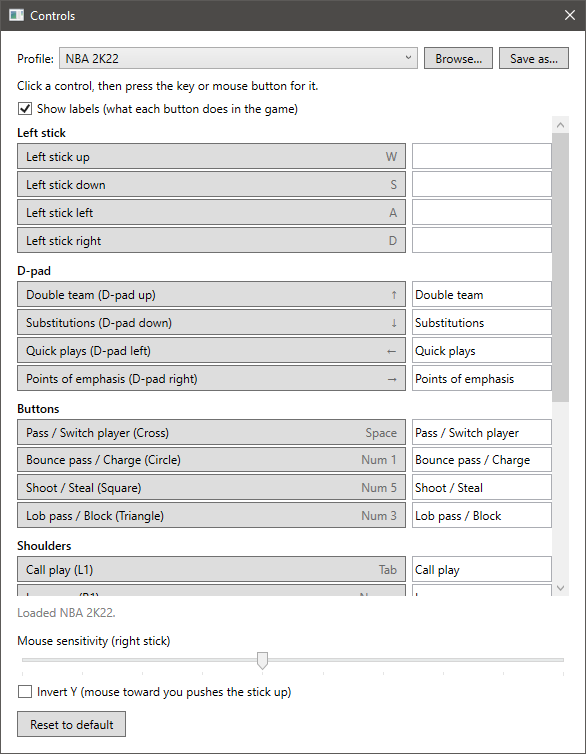
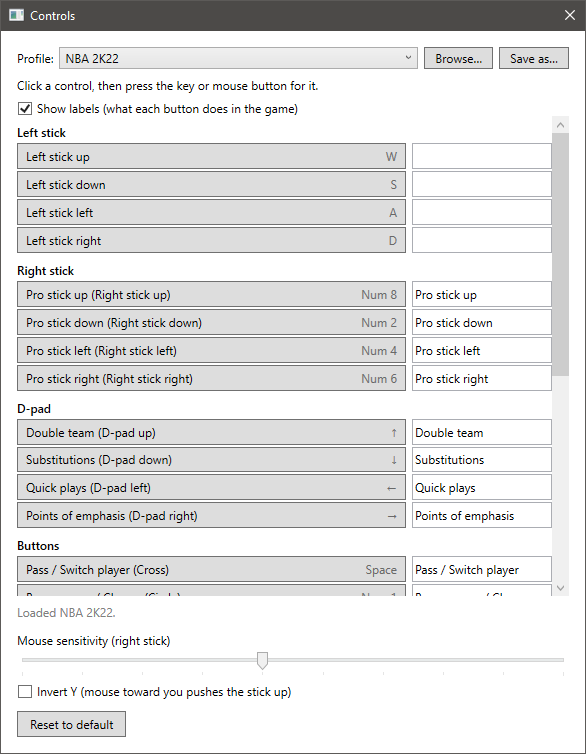
docs: keys on the right stick in the guide, roadmap and gate checks

diff --git a/docs/cafe-setup-guide.md b/docs/cafe-setup-guide.md
@@ -222,6 +222,10 @@ Each joining PC's keyboard and mouse act as a DualShock 4 controller.
 The mouse acts like a stick that springs back to the centre: move it to push
 the right stick, and the stick returns to the middle when the mouse stops.
 
+You can also put keys on the right stick's four directions in the editor.
+While one of those keys is held, the keys move the stick and the mouse is
+ignored; let go and the mouse works again.
+
 ### Changing keys
 
 ![The controls editor](images/controls.png)
@@ -259,8 +263,9 @@ During a game, F1 shows the profile's name and what each button does:
   pass, Num 3 lob, Enter to sprint, Left Shift to post up, Tab to call a
   play, Num + icon pass, Page Up timeout, Page Down pause, arrows for
   coaching), so players who know 2K's keyboard controls feel at home. The
-  pro stick stays on the mouse. Keep **Num Lock** on, or the number pad
-  keys send other keys.
+  pro stick is on Num 8/2/4/6, and the mouse still moves it while none of
+  those keys is held. Keep **Num Lock** on, or the number pad keys send
+  other keys.
 - **Add your own:** the profiles live in the `profiles` folder next to
   `CouchLink.App.exe`. Put more profile files there and copy the folder to
   every PC. The list reads the folder each time the editor opens.

diff --git a/docs/superpowers/specs/2026-10-08-couchlink-controller-profiles-design.md b/docs/superpowers/specs/2026-10-08-couchlink-controller-profiles-design.md
@@ -43,7 +43,8 @@ Settled in brainstorming (2026-10-08):
   sources give Enter or Num Enter, which Windows reports as the same key),
   Page Up timeout (Touchpad), Page Down pause (Options), arrows on-the-fly
   coaching (D-pad), WASD movement. The game's pro stick keys (Num 8/4/2/6)
-  have no equivalent: CouchLink's right stick is always the mouse. L3, R3
+  are on the right stick since #59 (see the
+  [right-stick keys design](2026-10-09-couchlink-right-stick-keys-design.md)). L3, R3
   and Share keep CouchLink's keys. Labels name the game's actions. A test
   pins every binding. The file lives in `src/CouchLink.App/profiles/` and
   is copied next to the exe on build and publish.
@@ -115,7 +116,8 @@ One JSON file per profile, UTF-8, extension `.json`.
 The `PadControl` names: `LeftUp`, `LeftDown`, `LeftLeft`, `LeftRight`,
 `DpadUp`, `DpadDown`, `DpadLeft`, `DpadRight`, `Cross`, `Circle`, `Square`,
 `Triangle`, `L1`, `R1`, `L2`, `R2`, `L3`, `R3`, `Options`, `Share`,
-`Touchpad`. The right stick is the mouse and can't appear in `controls`.
+`Touchpad`. `RightUp`, `RightDown`, `RightLeft` and `RightRight` were added
+by #59.
 
 Renaming a `PadControl` member would break every profile, so a unit test
 pins the list above.

diff --git a/docs/gate-results.md b/docs/gate-results.md
@@ -96,7 +96,9 @@ Client PC: <fill in>
 | Open the editor with Ctrl+Alt+C and click Save as…: both dialogs open in front of the game | <pass/fail> |
 | Reset to default after loading: built-in keys, no labels, no profile name | <pass/fail> |
 | Close and restart CouchLink: built-in layout | <pass/fail> |
-| Shipped NBA 2K22 profile in 2K22 (Num Lock on): Space passes, Num 5 shoots, Num 1 bounce pass, Num 3 lob, Enter sprints, Left Shift posts up, Tab calls a play, Page Down pauses, the mouse is the pro stick | <pass/fail> |
+| Shipped NBA 2K22 profile in 2K22 (Num Lock on): Space passes, Num 5 shoots, Num 1 bounce pass, Num 3 lob, Enter sprints, Left Shift posts up, Tab calls a play, Page Down pauses, the mouse also moves the pro stick | <pass/fail> |
+| Bind Num 8 to Right stick up in the editor; in a gamepad tester (joy.cpl) holding Num 8 pushes the right stick up; moving the mouse while holding changes nothing; after release the mouse moves the stick again | <pass/fail> |
+| Shipped NBA 2K22 profile in 2K22: Num 8/2/4/6 work the pro stick; F1 lists "Pro stick up (Right stick up)  Num 8" | <pass/fail> |
 
 ## Stream quality (Plan 10)
 

diff --git a/README.md b/README.md
@@ -92,7 +92,7 @@ editor, stream quality, reading the stats, and troubleshooting.
 | Controller | Keys | Controller | Keys |
 |---|---|---|---|
 | Left stick | W A S D | L1 / R1 | Q / E |
-| Right stick | Mouse | L2 / R2 | Ctrl / Shift |
+| Right stick | Mouse (or keys you bind) | L2 / R2 | Ctrl / Shift |
 | D-pad | Arrow keys | L3 / R3 | F / middle mouse |
 | Cross / Circle | K / L | Options / Share | Enter / Backspace |
 | Square / Triangle | J or left mouse / I | Touchpad | Tab |

diff --git a/ROADMAP.md b/ROADMAP.md
@@ -85,6 +85,7 @@ such as "Shoot" on the F1 panel. Design:
 [controller profiles](docs/superpowers/specs/2026-10-08-couchlink-controller-profiles-design.md).
 
 - [#56](https://github.com/enriquezchristopher/CouchLink/issues/56) Controller profiles: load a game's key layout from a file
+- [#59](https://github.com/enriquezchristopher/CouchLink/issues/59) Bind keys to the right stick, alongside the mouse
 
 ## Game compatibility
 
